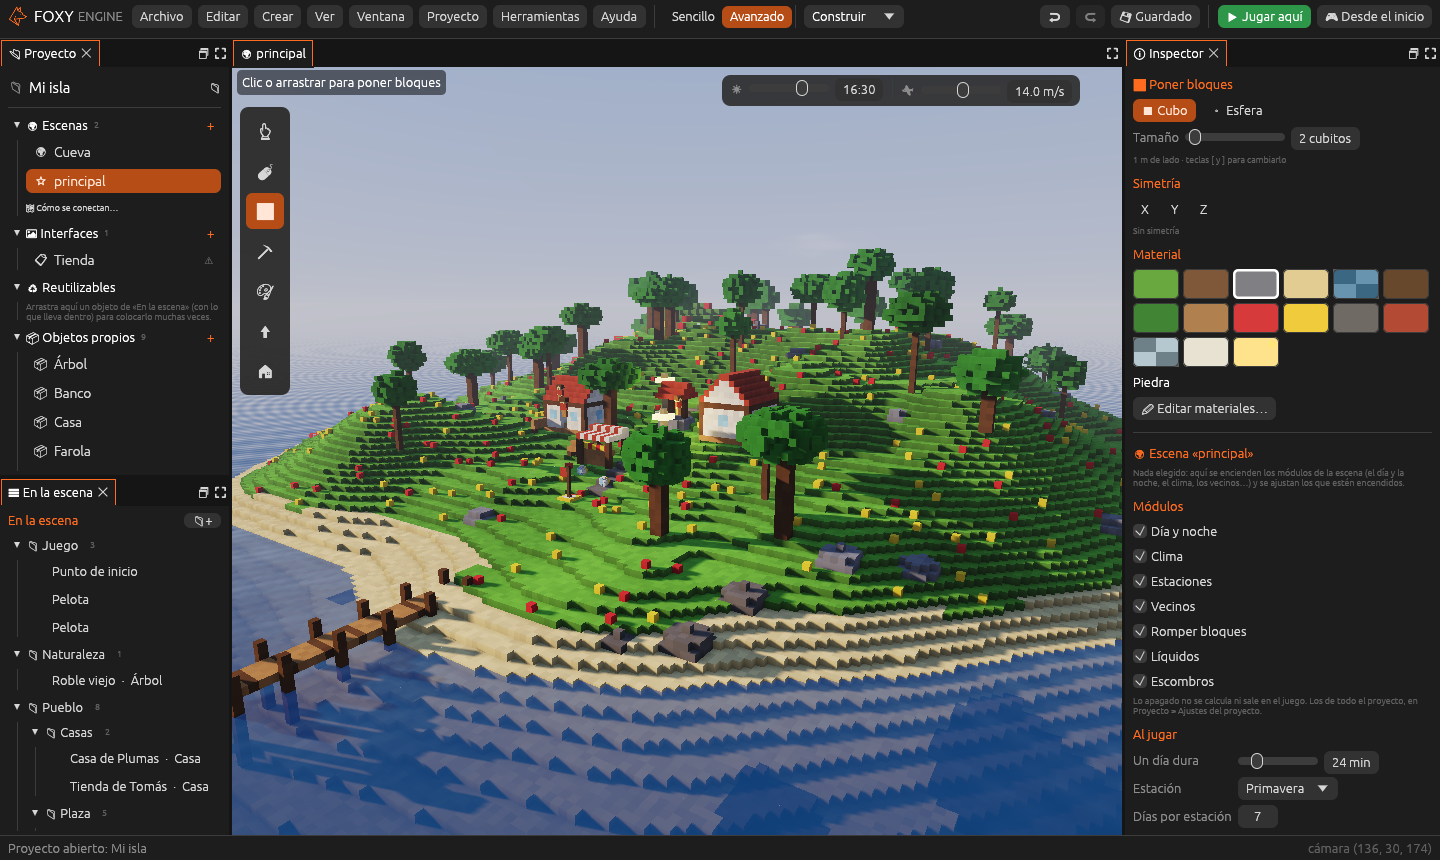
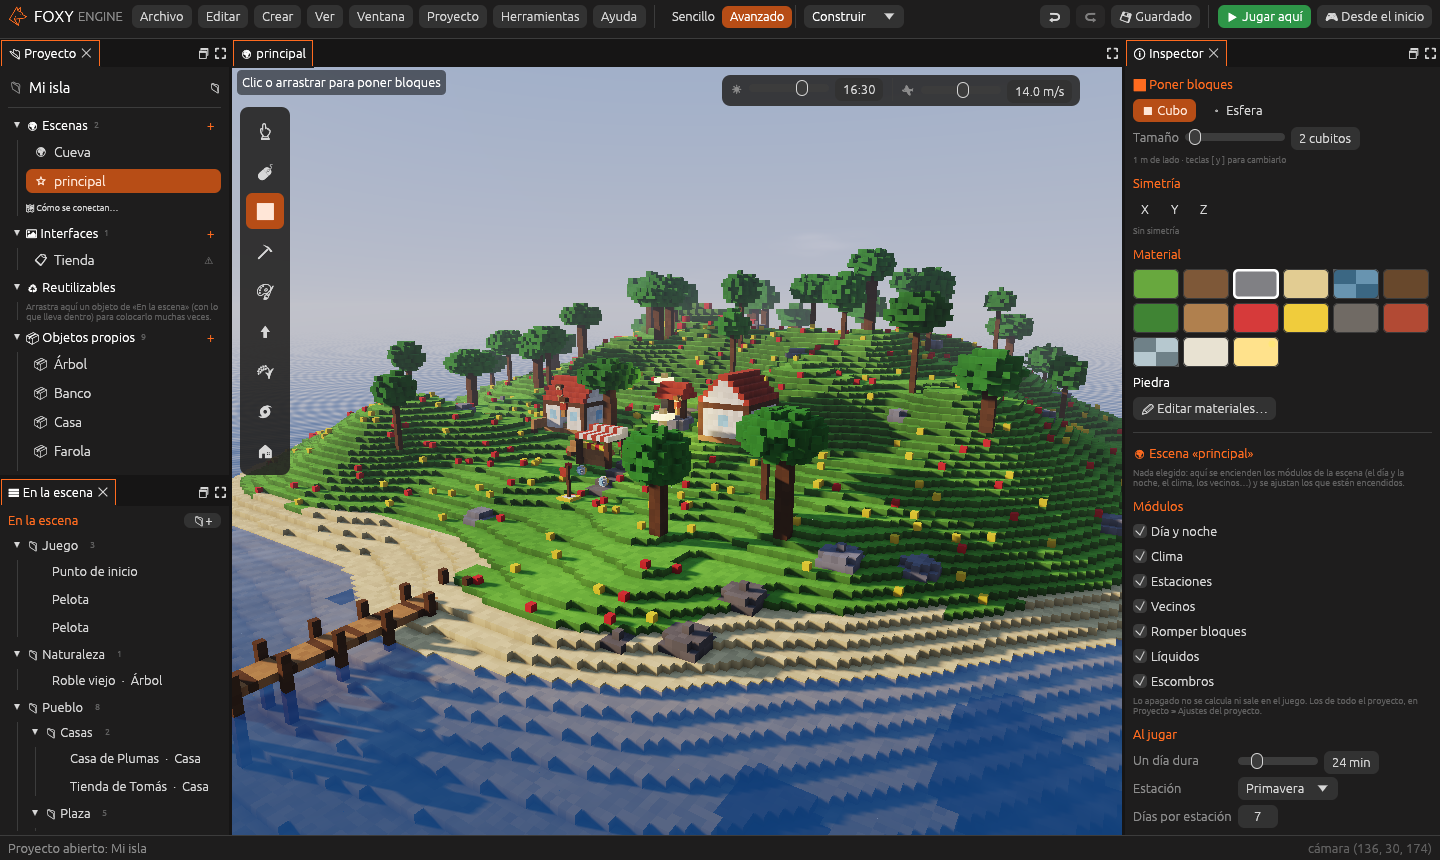
Fase Q: lo que pidió el templo (#30)
Claude-Session: https://claude.ai/code/session_0188fnkpyPPvU4mEgtRQfWpD

diff --git a/theme/iconos.css b/theme/iconos.css
@@ -19,8 +19,9 @@
 .fx-poner { --fx: url("../imagenes/iconos/poner.svg"); }
 .fx-quitar { --fx: url("../imagenes/iconos/quitar.svg"); }
 .fx-pintar { --fx: url("../imagenes/iconos/pintar.svg"); }
-.fx-extruir { --fx: url("../imagenes/iconos/extruir.svg"); }
-.fx-simetria { --fx: url("../imagenes/iconos/simetria.svg"); }
+.fx-pintar-suelo { --fx: url("../imagenes/iconos/pintar-suelo.svg"); }
+.fx-suavizar { --fx: url("../imagenes/iconos/suavizar.svg"); }
+.fx-sembrar { --fx: url("../imagenes/iconos/sembrar.svg"); }
 .fx-colocar { --fx: url("../imagenes/iconos/colocar.svg"); }
 .fx-vecino { --fx: url("../imagenes/iconos/vecino.svg"); }
 .fx-zona { --fx: url("../imagenes/iconos/zona.svg"); }
@@ -77,7 +78,6 @@
 .chapter a[href$="guia/vida.html"]::before { --fx: url("../imagenes/iconos/vida.svg"); }
 .chapter a[href$="guia/guiones.html"]::before { --fx: url("../imagenes/iconos/guion.svg"); }
 .chapter a[href$="guia/jugar.html"]::before { --fx: url("../imagenes/iconos/mando.svg"); }
-.chapter a[href$="guia/rendimiento.html"]::before { --fx: url("../imagenes/iconos/chip.svg"); }
 .chapter a[href$="referencia/atajos.html"]::before { --fx: url("../imagenes/iconos/teclado.svg"); }
 .chapter a[href$="referencia/lua.html"]::before { --fx: url("../imagenes/iconos/guion.svg"); }
 .chapter a[href$="referencia/acciones.html"]::before { --fx: url("../imagenes/iconos/usar.svg"); }

diff --git a/src/apendices/iconos.html b/src/apendices/iconos.html
@@ -16,6 +16,9 @@
   <figure><i class="fx fx-poner"></i><figcaption>Poner bloques<code>poner</code></figcaption></figure>
   <figure><i class="fx fx-quitar"></i><figcaption>Quitar bloques<code>quitar</code></figcaption></figure>
   <figure><i class="fx fx-pintar"></i><figcaption>Pintar<code>pintar</code></figcaption></figure>
+  <figure><i class="fx fx-pintar-suelo"></i><figcaption>Pintar el suelo<code>pintar-suelo</code></figcaption></figure>
+  <figure><i class="fx fx-suavizar"></i><figcaption>Suavizar<code>suavizar</code></figcaption></figure>
+  <figure><i class="fx fx-sembrar"></i><figcaption>Sembrar<code>sembrar</code></figcaption></figure>
   <figure><i class="fx fx-colocar"></i><figcaption>Colocar objetos<code>colocar</code></figcaption></figure>
   <figure><i class="fx fx-vecino"></i><figcaption>Vecino<code>vecino</code></figcaption></figure>
   <figure><i class="fx fx-zona"></i><figcaption>Zona de cambio<code>zona</code></figcaption></figure>

diff --git a/theme/version.js b/theme/version.js
@@ -1,2 +1,2 @@
 // Lo escribe herramientas/capturas.py con `foxy-engine --version`.
-window.FOXY_VERSION = "0.0.1-PR46";
+window.FOXY_VERSION = "0.0.1-PR50";

diff --git a/herramientas/generar-iconos.py b/herramientas/generar-iconos.py
@@ -41,6 +41,9 @@ ICONOS = {
     "poner": ("Poner bloques", '<rect x="4" y="4" width="16" height="16" rx="1"/><path d="M12 8.5v7M8.5 12h7"/>'),
     "quitar": ("Quitar bloques", '<rect x="4" y="4" width="16" height="16" rx="1" stroke-dasharray="3 2.4"/><path d="M8.5 12h7"/>'),
     "pintar": ("Pintar", '<rect x="3.5" y="3" width="14" height="5.5" rx="1"/><path d="M17.5 5.75h3v5.25H11v3"/><rect x="9.5" y="14" width="3" height="7" rx="1"/>'),
+    "pintar-suelo": ("Pintar el suelo", '<path d="M3 15c3-2.5 6-2.5 9 0s6 2.5 9 0"/><path d="M3 20c3-2.5 6-2.5 9 0s6 2.5 9 0"/><path d="M12 3v7.5M9 7.5l3 3 3-3"/>'),
+    "suavizar": ("Suavizar", '<path d="M4 19c0-7 3.6-12 8-12s8 5 8 12"/><path d="M3 19h18"/><path d="M12 3v1.5M5.5 5.5l1 1M18.5 5.5l-1 1"/>'),
+    "sembrar": ("Sembrar", '<path d="M12 21v-9"/><path d="M12 12c0-4-3-6.5-7-6.5 0 4 3 6.5 7 6.5z"/><path d="M12 15c0-4 3-6.5 7-6.5 0 4-3 6.5-7 6.5z"/><path d="M7 21h10"/>'),
     "colocar": ("Colocar objetos", '<path d="M3 11.5 12 4l9 7.5"/><path d="M5.5 9.5V20h13V9.5"/><path d="M10 20v-5.5h4V20"/>'),
     # Objetos del juego
     "vecino": ("Vecino", '<circle cx="12" cy="7.5" r="3.5"/><path d="M5 20.5a7 7 0 0 1 14 0"/>'),

diff --git a/herramientas/capturas.py b/herramientas/capturas.py
@@ -212,6 +212,9 @@ LISTA: dict[str, str] = {
     "preferencias-esquema": f"{ED} --pestana preferencias --esquema blender",
     "paneles-propios": f"{ED} --pestana herramientas --flotante propios",
     "ajustes-extensiones": f"{ED} --pestana ajustes-extensiones",
+    # Lo que pidió el templo (Fase Q)
+    "paisaje-mar": f"--ancho 720 --alto 430 --camara 120,14,160 --mirar 60,9,230 --hora 17.2 --atmosfera realista --paisaje todo",
+    "sembrar": f"{ED} --herramienta sembrar",
     # Marca
     "marca-splash": f"{JUEGO} --splash",
     "marca-carga-editor": f"{JUEGO} --editor --splash",

diff --git a/src/tu-primer-juego/demo-tecnica.md b/src/tu-primer-juego/demo-tecnica.md
@@ -57,27 +57,28 @@ persona, mirando a la estatua:
 | **El templo** | Está hecho con cubitos del propio terreno (como si se hubiera hecho con el pincel), por eso la luz que rebota lo ve y dentro queda en penumbra. Las columnas y la estatua sí son objetos. |
 | **Mármol, oro y marfil** | En [Materiales](../guia/materiales.md): el mármol es **pulido**, el oro y el bronce son **metálicos**, y el fuego, las ventanas y el orbe de la estatua tienen **luz**. El orbe lleva además el efecto **Latido**. |
 | **Texturas** | En [Pixel art](../interfaz/pixel-art.md), las imágenes `demo_marmol`, `demo_losas`, `demo_adoquin`... de 32 × 32 píxeles, que cubren un metro. |
-| **La estatua, las casas y los barcos** | En *Objetos propios* del panel Proyecto. Los más grandes (la estatua, las columnas, la stoa, el teatro, el faro y los trirremes) van en varias piezas, porque un objeto no puede pasar de 64 cubitos de lado. |
+| **La estatua, las casas y los barcos** | En *Objetos propios* del panel Proyecto. Todos van de una pieza, también la estatua y el teatro: un objeto puede medir hasta 256 cubitos de lado. Los árboles, la hierba y las velas tienen **Viento** y se mecen. |
+| **La gente** | Catorce [vecinos](../referencia/modulos/vecinos.md) pasean por la plaza; acércate y pulsa <kbd>E</kbd> para hablar con ellos. |
+| **La playa** | El terreno tiene [suelo de varios materiales](../guia/generadores.md#suelo-de-varios-materiales): arena en la orilla y roca en los cortados. |
 | **Los fuegos** | Los objetos **Fuego del trípode** llevan una [Luz](../referencia/componentes/luz.md) con **Sombras**, partículas y un Animador con la animación **llama**. |
 | **La niebla y los rayos de sol** | El objeto **Niebla del mar** lleva el componente Niebla, con **rayos**. El objeto **Sol** pone la hora de la tarde. |
 | **La cinemática** | En el panel [Animación](../guia/cinematicas.md), la cinemática **presentacion**. La pone el guion del mundo al empezar. |
-| **Los gráficos** | En **Ajustes del proyecto → Gráficos**: calidad Ultra, atmósfera realista (luz que rebota, rayos, agua que refleja) y mundo enorme (carga por zonas, se ve hasta 2,4 km). Ver [Gráficos](../guia/graficos.md). |
+| **Los gráficos** | En **Ajustes del proyecto → Gráficos**: calidad Ultra, atmósfera realista (luz que rebota, rayos, agua que refleja), mundo enorme (carga por zonas, se ve hasta 2,4 km) y [mar, viento y reflejos](../guia/graficos.md#mar-viento-y-reflejos) (el mármol refleja las columnas y el mar llega al horizonte con olas). Ver [Gráficos](../guia/graficos.md). |
 
 Es un proyecto como cualquier otro: cambia lo que quieras o
 [publícalo](../publicar/publicar.md) para jugarlo fuera del editor.
 
 ![El puerto y la ciudad de noche: las ventanas se reflejan en el agua](../imagenes/capturas/demo-tecnica-noche.png)
 
-## Lo que todavía no se puede hacer
+## Lo que añadió esta versión
 
-La demo usa solo lo que el motor sabe hacer hoy. Lo que le faltó está
-apuntado en la hoja de ruta:
+Al hacer la demo faltaban cosas en el motor. Ya están todas, y la demo las
+usa: reflejos en el mármol, objetos grandes de una pieza, luz que rebota
+también en los objetos, arena en la playa, mar hasta el horizonte con olas,
+viento, gente por la plaza y pinceles para
+[pintar el suelo, suavizar y sembrar](../guia/mundo.md#pintar-el-suelo).
+Además, la escena se abre mucho más deprisa.
 
-- El mármol pulido refleja el cielo, pero no las columnas: los reflejos de
-  lo que hay en pantalla solo salen en el agua.
-- Los objetos no pueden pasar de 64 cubitos de lado.
-- El terreno pone un solo material arriba: no hay arena en la orilla ni un
-  pincel para pintar el terreno de otro material.
-- El mar acaba en el borde del mundo y no tiene olas.
-- No hay pincel para sembrar árboles y rocas, ni para esculpir formas
-  suaves en el creador de objetos.
+| El suelo pulido refleja la estatua | Gente en la plaza |
+|---|---|
+| ![Dentro del templo: el oro de la estatua se refleja en el suelo pulido](../imagenes/capturas/demo-tecnica-reflejos.png) | ![La plaza con el mercado, la stoa y vecinos paseando](../imagenes/capturas/demo-tecnica-plaza.png) |

diff --git a/src/guia/mundo.md b/src/guia/mundo.md
@@ -16,6 +16,8 @@ tecla:
 | <i class="fx fx-quitar"></i> | **Quitar bloques** | <kbd>E</kbd> | Clic o arrastra para cavar. Bajo el nivel del mar el hueco se llena de agua |
 | <i class="fx fx-pintar"></i> | **Pintar** | <kbd>P</kbd> | Cambia el material de lo que ya hay, sin añadir ni quitar |
 | <i class="fx fx-extruir"></i> | **Extruir** | <kbd>X</kbd> | Clic en una cara para sacar una capa más de toda esa cara (o meterla) |
+| <i class="fx fx-pintar-suelo"></i> | **Pintar el suelo** | <kbd>N</kbd> | Pinta la superficie del terreno en grande, con el borde mezclado |
+| <i class="fx fx-suavizar"></i> | **Suavizar** | <kbd>M</kbd> | Lima lo que sobresale y rellena los huecos: formas redondeadas |
 | <i class="fx fx-colocar"></i> | **Colocar objetos** | <kbd>O</kbd> | Pone casas, árboles, vecinos, pelotas… |
 
 Las opciones de cada herramienta salen en el **inspector**, a la derecha.
@@ -52,6 +54,33 @@ En el inspector se elige **Hacia fuera** (añade una capa) o **Hacia dentro**
 (quita la capa de la cara). Cada clic es una capa: al arrastrar no se sigue
 extruyendo.
 
+## Pintar el suelo
+
+<i class="fx fx-pintar-suelo"></i> **Pintar el suelo** (<kbd>N</kbd>) cambia
+el material de la **superficie** del terreno en un círculo grande: arena en
+una playa, roca en un cortado, hierba en un prado o tierra en un camino. No
+añade ni quita nada: solo pinta lo de arriba (y el cubito de debajo, para
+que en los escalones no asome el material de antes). El **borde se
+deshilacha**: unos cubitos sí y otros no, así dos suelos se mezclan sin una
+raya recta.
+
+El tamaño va de 1 a 24, como el del pincel, pero el círculo es cuatro veces
+más ancho: con cubitos de medio metro, de 2 a 48 m. Antes de hacer clic se
+ve una losa verde del ancho del círculo.
+
+> <i class="fx fx-consejo"></i> **Consejo.** Para un terreno natural, empieza
+> con el [suelo de varios materiales](generadores.md#suelo-de-varios-materiales)
+> del generador y retoca después con este pincel.
+
+## Suavizar
+
+<i class="fx fx-suavizar"></i> **Suavizar** (<kbd>M</kbd>) redondea lo que
+tocas: el cubito que está casi solo (asomando de una pared, en una esquina)
+se quita, y el hueco rodeado de cubitos se rellena con el material que más
+hay alrededor. Pasa el pincel varias veces para redondear más. Con la forma
+**esfera** queda más suave. Sirve en el mundo (rocas, colinas, cuevas) y en
+el [creador de objetos](creador.md), para esculpir.
+
 ## Simetría
 
 En las opciones del pincel (también al extruir) está la
@@ -84,6 +113,28 @@ tiene tres partes:
   cambio. Todos están en [Objetos del motor](../referencia/objetos.md).
 - **Mis objetos**: los que has hecho con el
   [creador de objetos](creador.md).
+
+### Sembrar
+
+En las opciones de **Colocar objetos** está
+<i class="fx fx-sembrar"></i> **Sembrar (muchos de una vez)**. Encendido, un
+clic pone **varios** del objeto elegido en un círculo del suelo, cada uno
+girado hacia un lado y de un tamaño un poco distinto, y arrastrando se
+siembra por donde pasas. Es la forma de hacer un bosque, un pedregal o un
+campo de flores en un momento. Se ajusta:
+
+- **Círculo**: el radio, en metros. Se ve como una losa verde.
+- **Cuántos**: los que pone en cada clic, como mucho.
+- **Separación**: la distancia mínima entre dos. Tampoco se ponen encima de
+  los objetos que ya hay, así que pasar dos veces no los amontona.
+- **Tamaños**: cuánto puede cambiar el tamaño de cada uno.
+- **Cada uno mirando hacia un lado**: si no, todos miran como el giro
+  elegido.
+
+No se siembra en el agua ni encima de hojas o troncos. Cada tanda se
+deshace de una vez con <kbd>Cmd</kbd>/<kbd>Ctrl</kbd>+<kbd>Z</kbd>.
+
+![Sembrar árboles](../imagenes/capturas/sembrar.png)
 
 El menú **Crear** también pone al momento una
 <i class="fx fx-zona"></i> *Zona de cambio*, un

diff --git a/src/guia/creador.md b/src/guia/creador.md
@@ -31,8 +31,9 @@ peana no es parte del objeto), y sus opciones:
 | Opción | Qué hace |
 |---|---|
 | **Nombre** | El que se ve en *Mis objetos* |
-| **Tamaño** | Ancho, alto y fondo de la caja del objeto, hasta 64 cubitos (32 m) por lado |
-| **Pincel** | Poner, quitar, pintar o [extruir](mundo.md#extruir), igual que en el mundo |
+| **Tamaño** | Ancho, alto y fondo de la caja del objeto, hasta 256 cubitos por lado (128 m con cubitos de medio metro): una estatua, un teatro o un barco caben de una pieza |
+| **Pincel** | Poner, quitar, pintar, [extruir](mundo.md#extruir) o [suavizar](mundo.md#suavizar), igual que en el mundo |
+| **Viento** | Cuánto se mece con el viento: 0 nada, un árbol 0,5, una vela o una bandera 1. Lo de abajo se queda quieto. Se ve con el viento encendido en los [gráficos](graficos.md#mar-viento-y-reflejos) |
 | <i class="fx fx-simetria"></i> **Simetría** | X, Y y Z. El espejo está siempre en el centro del objeto: ideal para personajes, barcos o muebles |
 | **Material** | Cualquier material del motor |
 | <i class="fx fx-guardar"></i> **Guardar objeto** | <kbd>Cmd</kbd>/<kbd>Ctrl</kbd>+<kbd>S</kbd> |
@@ -42,6 +43,14 @@ peana no es parte del objeto), y sus opciones:
 La vista se gira con el **botón derecho** o con <kbd>Cmd</kbd>/<kbd>Ctrl</kbd>
 + ratón, y la rueda acerca y aleja. <kbd>Cmd</kbd>/<kbd>Ctrl</kbd>+<kbd>Z</kbd>
 deshace.
+
+### Esculpir
+
+Para formas redondeadas (una roca, una cabeza, una estatua), pon un bloque
+grande con el pincel en forma de **esfera** y pasa **Suavizar**
+(<kbd>M</kbd>) por las esquinas: lo que sobresale se lima y los huecos se
+rellenan, pasada a pasada. Con la simetría encendida se esculpen los dos
+lados a la vez.
 
 > <i class="fx fx-consejo"></i> **Consejo.** Si ya tienes modelos hechos en
 > MagicaVoxel o Qubicle, [impórtalos](importar.md) y sigue trabajándolos

diff --git a/src/guia/graficos.md b/src/guia/graficos.md
@@ -141,6 +141,26 @@ En el inspector de la niebla se cambian su **Densidad**, la fuerza de los
 > detalle. Si el juego va lento, baja la **Calidad** o la **Escala del
 > dibujo** antes de apagar piezas.
 
+## Mar, viento y reflejos
+
+En la misma página, la sección **Mar, viento y reflejos** añade lo que hace
+que un paisaje parezca de verdad. También viene **apagada**; **Encender
+todo** la pone con unos valores que quedan bien.
+
+| Ajuste | Qué hace |
+|---|---|
+| **Reflejos en lo pulido** | El mármol pulido, el oro y los suelos brillantes reflejan lo que tienen delante (las columnas, una estatua, una persona), no solo el cielo. Funciona con los materiales que tienen **Pulido** alto o son metálicos |
+| **Mar hasta el horizonte** | El mar no se acaba en el borde del mundo: sigue hasta donde se pierde la vista |
+| **Olas** | Altura de las olas, en metros. Las crestas hacen espuma y el oleaje llega a la orilla |
+| **Viento** | Cuánto se mecen los árboles, la hierba, las velas y las banderas. Lo de abajo (el tronco, el casco) se queda quieto |
+| **Sopla hacia** | Hacia dónde va el viento, y con él las olas |
+
+El viento mueve los árboles del motor y los [objetos propios](creador.md)
+que tengan **Viento** en el creador. Todo esto solo funciona con el
+dibujante nuevo.
+
+![El mar hasta el horizonte, con olas y espuma en la orilla](../imagenes/capturas/paisaje-mar.png)
+
 ## Piezas del dibujo
 
 Cada parte del dibujo se puede apagar: **Sombras del sol**, **Sombras de las

diff --git a/src/apendices/historial.md b/src/apendices/historial.md
@@ -5,6 +5,25 @@ Foxy Engine se construye por fases. Cada fase deja el motor funcionando.
 La versión que sale al abrir el editor, como `0.0.1-PR15`, junta la versión
 del motor con el número del último cambio (*pull request*) incorporado.
 
+## Fase Q: Lo que pidió el templo
+
+- **Reflejos en lo pulido**: el mármol, el oro y los suelos brillantes
+  reflejan lo que tienen delante, no solo el cielo.
+- **Mar hasta el horizonte**, con **olas**, espuma en las crestas y oleaje
+  en la orilla, y **viento** que mece árboles y velas. Ver
+  [Mar, viento y reflejos](../guia/graficos.md#mar-viento-y-reflejos).
+- La **luz que rebota** también rebota en los objetos.
+- **Objetos de hasta 256 cubitos de lado**: una estatua o un teatro de una
+  pieza. Las texturas se ven bien en objetos de cualquier tamaño.
+- **Suelo de varios materiales** en el generador (arena en la orilla, roca
+  en las cuestas y en lo alto) y pinceles nuevos:
+  [Pintar el suelo, Suavizar y Sembrar](../guia/mundo.md#pintar-el-suelo).
+- Lua y los nodos cambian el **color, la fuerza y el alcance de una luz**
+  (`motor.luz_color`, `motor.luz_fuerza`, `motor.luz_alcance`).
+- Las escenas con **miles de objetos se abren mucho más deprisa**.
+- La [Demo técnica](../tu-primer-juego/demo-tecnica.md) lo usa todo, y
+  tiene gente paseando por la plaza.
+
 ## Fase O: Modo profesional
 
 - **Esquemas de atajos y cámara** *Como Blender* y *Como Unity* (además

diff --git a/src/referencia/nodos.md b/src/referencia/nodos.md
@@ -2144,6 +2144,45 @@ Enciende o apaga el componente Partículas del objeto (también en 3D).
 
 En Lua: `motor.particulas(entidad, encendidas)`
 
+### Color de una luz {#motor-luz_color}
+
+*Acción* · `motor.luz_color`
+
+Cambia el color de la luz del objeto mientras se juega ("#rrggbb").
+
+| Pin | Nombre | Tipo | Valor de partida |
+|---|---|---|---|
+| Entrada | objeto | objeto | este objeto |
+| Entrada | color | color | #ffd27a |
+
+En Lua: `motor.luz_color(entidad, color)`
+
+### Fuerza de una luz {#motor-luz_fuerza}
+
+*Acción* · `motor.luz_fuerza`
+
+Cambia cuánto alumbra la luz del objeto: 0 la apaga, 4 es lo máximo.
+
+| Pin | Nombre | Tipo | Valor de partida |
+|---|---|---|---|
+| Entrada | objeto | objeto | este objeto |
+| Entrada | fuerza | número | 1 |
+
+En Lua: `motor.luz_fuerza(entidad, fuerza)`
+
+### Alcance de una luz {#motor-luz_alcance}
+
+*Acción* · `motor.luz_alcance`
+
+Cambia hasta dónde llega la luz del objeto, en metros.
+
+| Pin | Nombre | Tipo | Valor de partida |
+|---|---|---|---|
+| Entrada | objeto | objeto | este objeto |
+| Entrada | metros | número | 8 |
+
+En Lua: `motor.luz_alcance(entidad, alcance)`
+
 ### Soltar partículas {#motor-soltar_particulas}
 
 *Acción* · `motor.soltar_particulas`

diff --git a/src/guia/generadores.md b/src/guia/generadores.md
@@ -88,6 +88,30 @@ suaviza entre píxel y píxel.
 Los materiales de cada capa se eligen entre los del proyecto. Un proyecto
 vacío usa sus propios materiales (*Suelo*, *Tierra* y *Roca*).
 
+## Suelo de varios materiales
+
+En la naturaleza el suelo no es igual en todas partes. Con **Suelo de
+varios materiales** encendido (en Islas, Colinas, Cuevas e Imagen), el
+generador pone:
+
+| Capa | Dónde | Por defecto |
+|---|---|---|
+| **Orilla** | Hasta unos metros por encima del agua | Arena, hasta 1,5 m |
+| **Cuestas** | Donde el terreno es empinado, desde la pendiente que elijas (45° = 1) | Piedra, desde 45° |
+| **Cumbres** | Por encima de la altura que elijas (o nunca) | Grava, nunca |
+
+Lo demás (los valles y los llanos) lleva la **Superficie** de siempre. Los
+bordes entre capas se mezclan con un poco de ruido, para que no sean rayas
+rectas. Después puedes retocar a mano con el pincel
+[Pintar el suelo](mundo.md#pintar-el-suelo).
+
+En el archivo es el campo `capas`:
+
+```ron
+capas: Some((orilla: Arena, orilla_alto: 1.5, cuesta: Piedra, cuesta_desde: 1.0,
+    cumbre: Grava, cumbre_desde: 30.0)),
+```
+
 ## En el archivo
 
 El terreno es un objeto de tipo `terreno` con el componente
